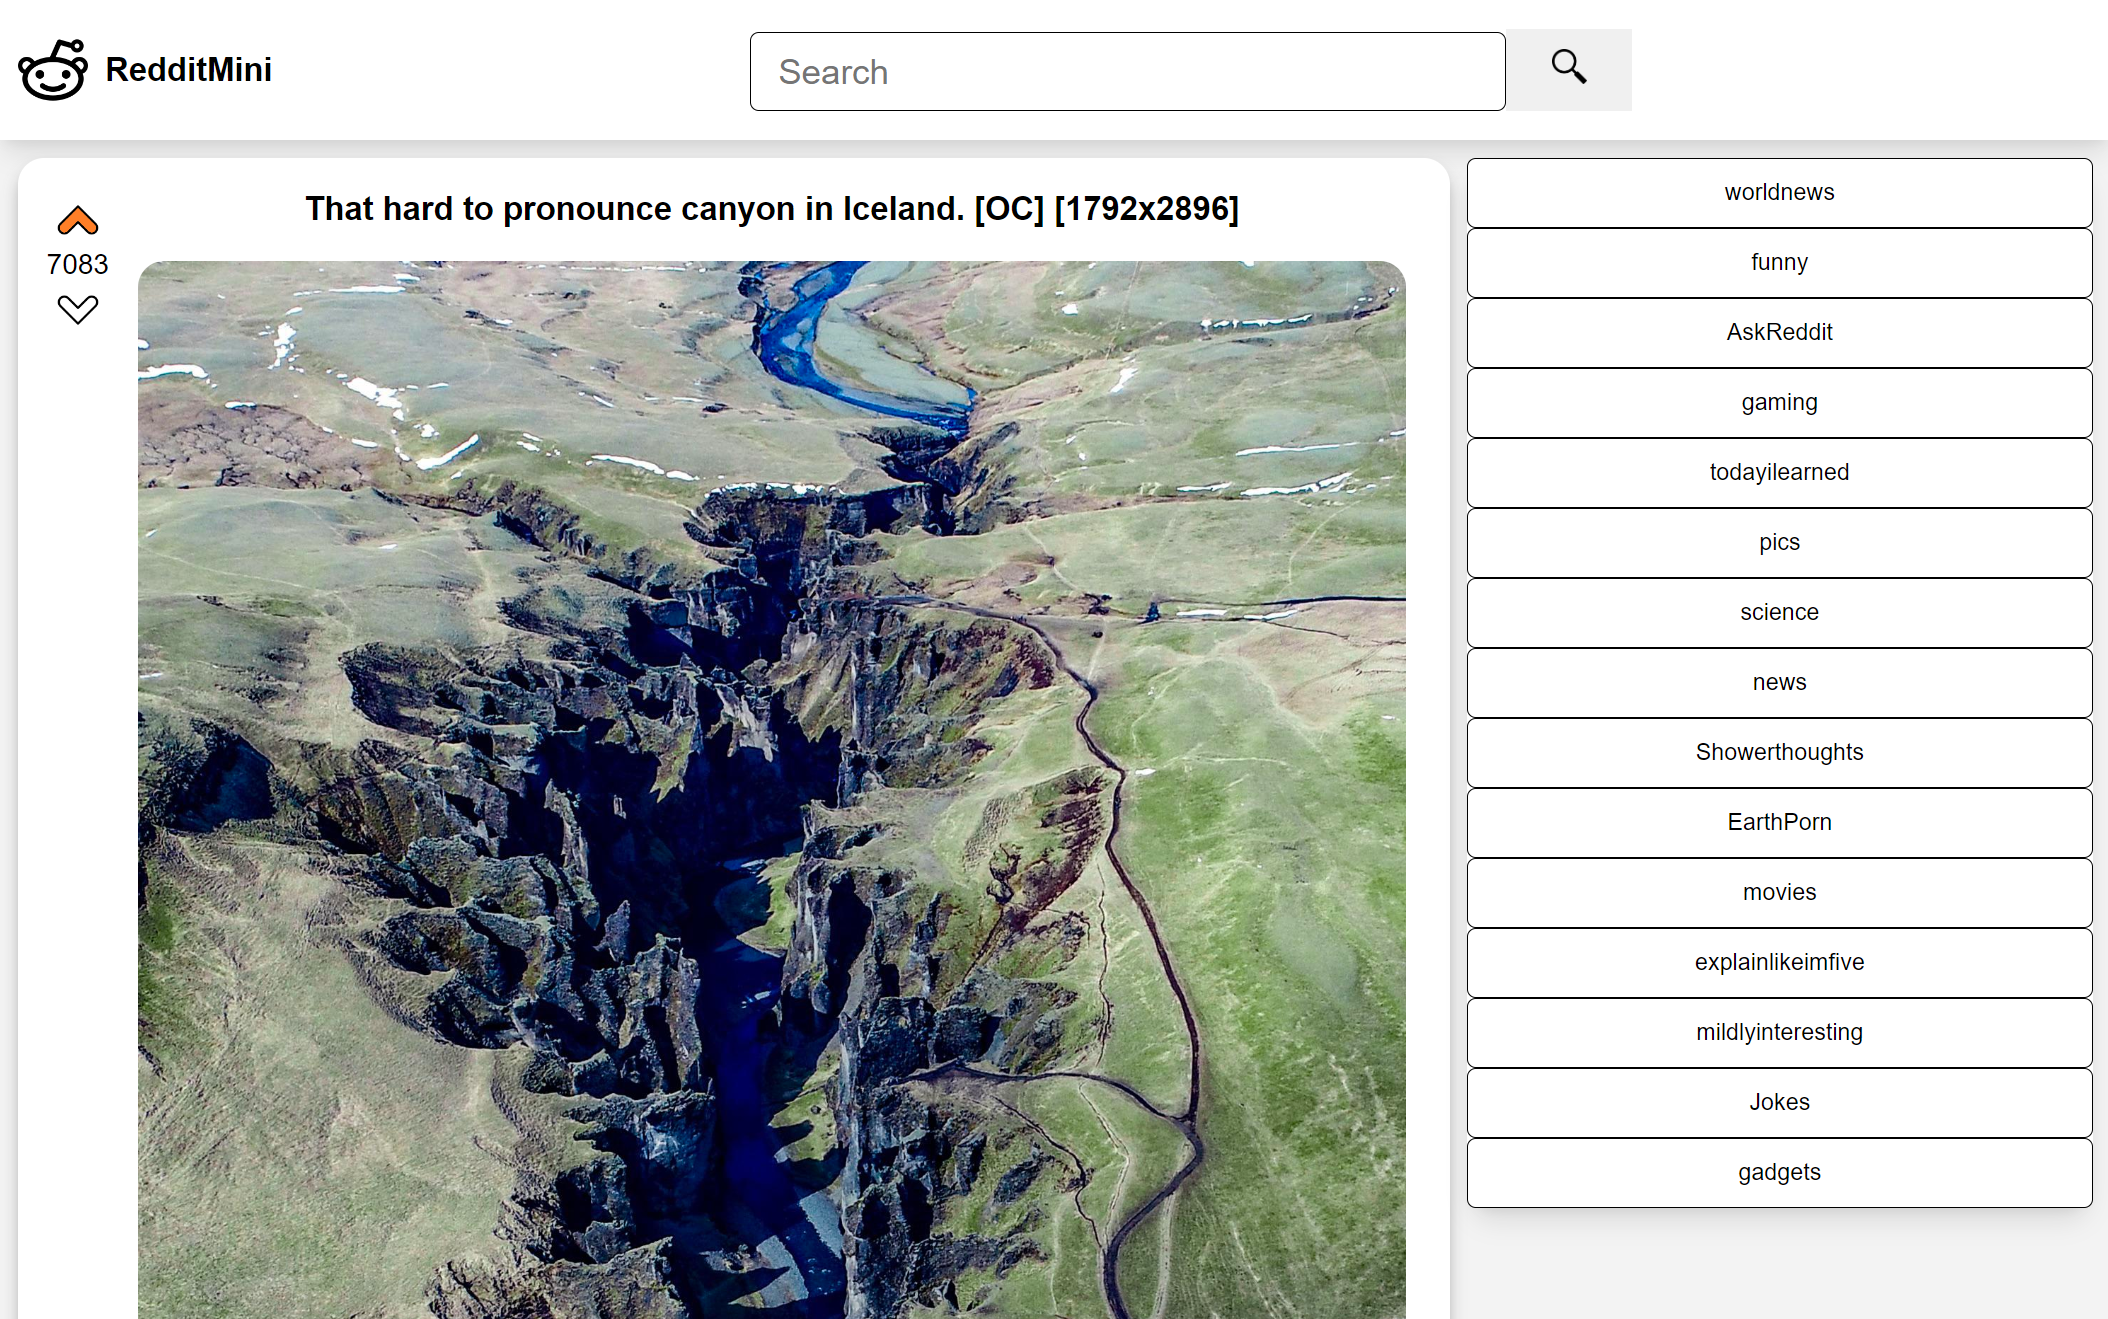
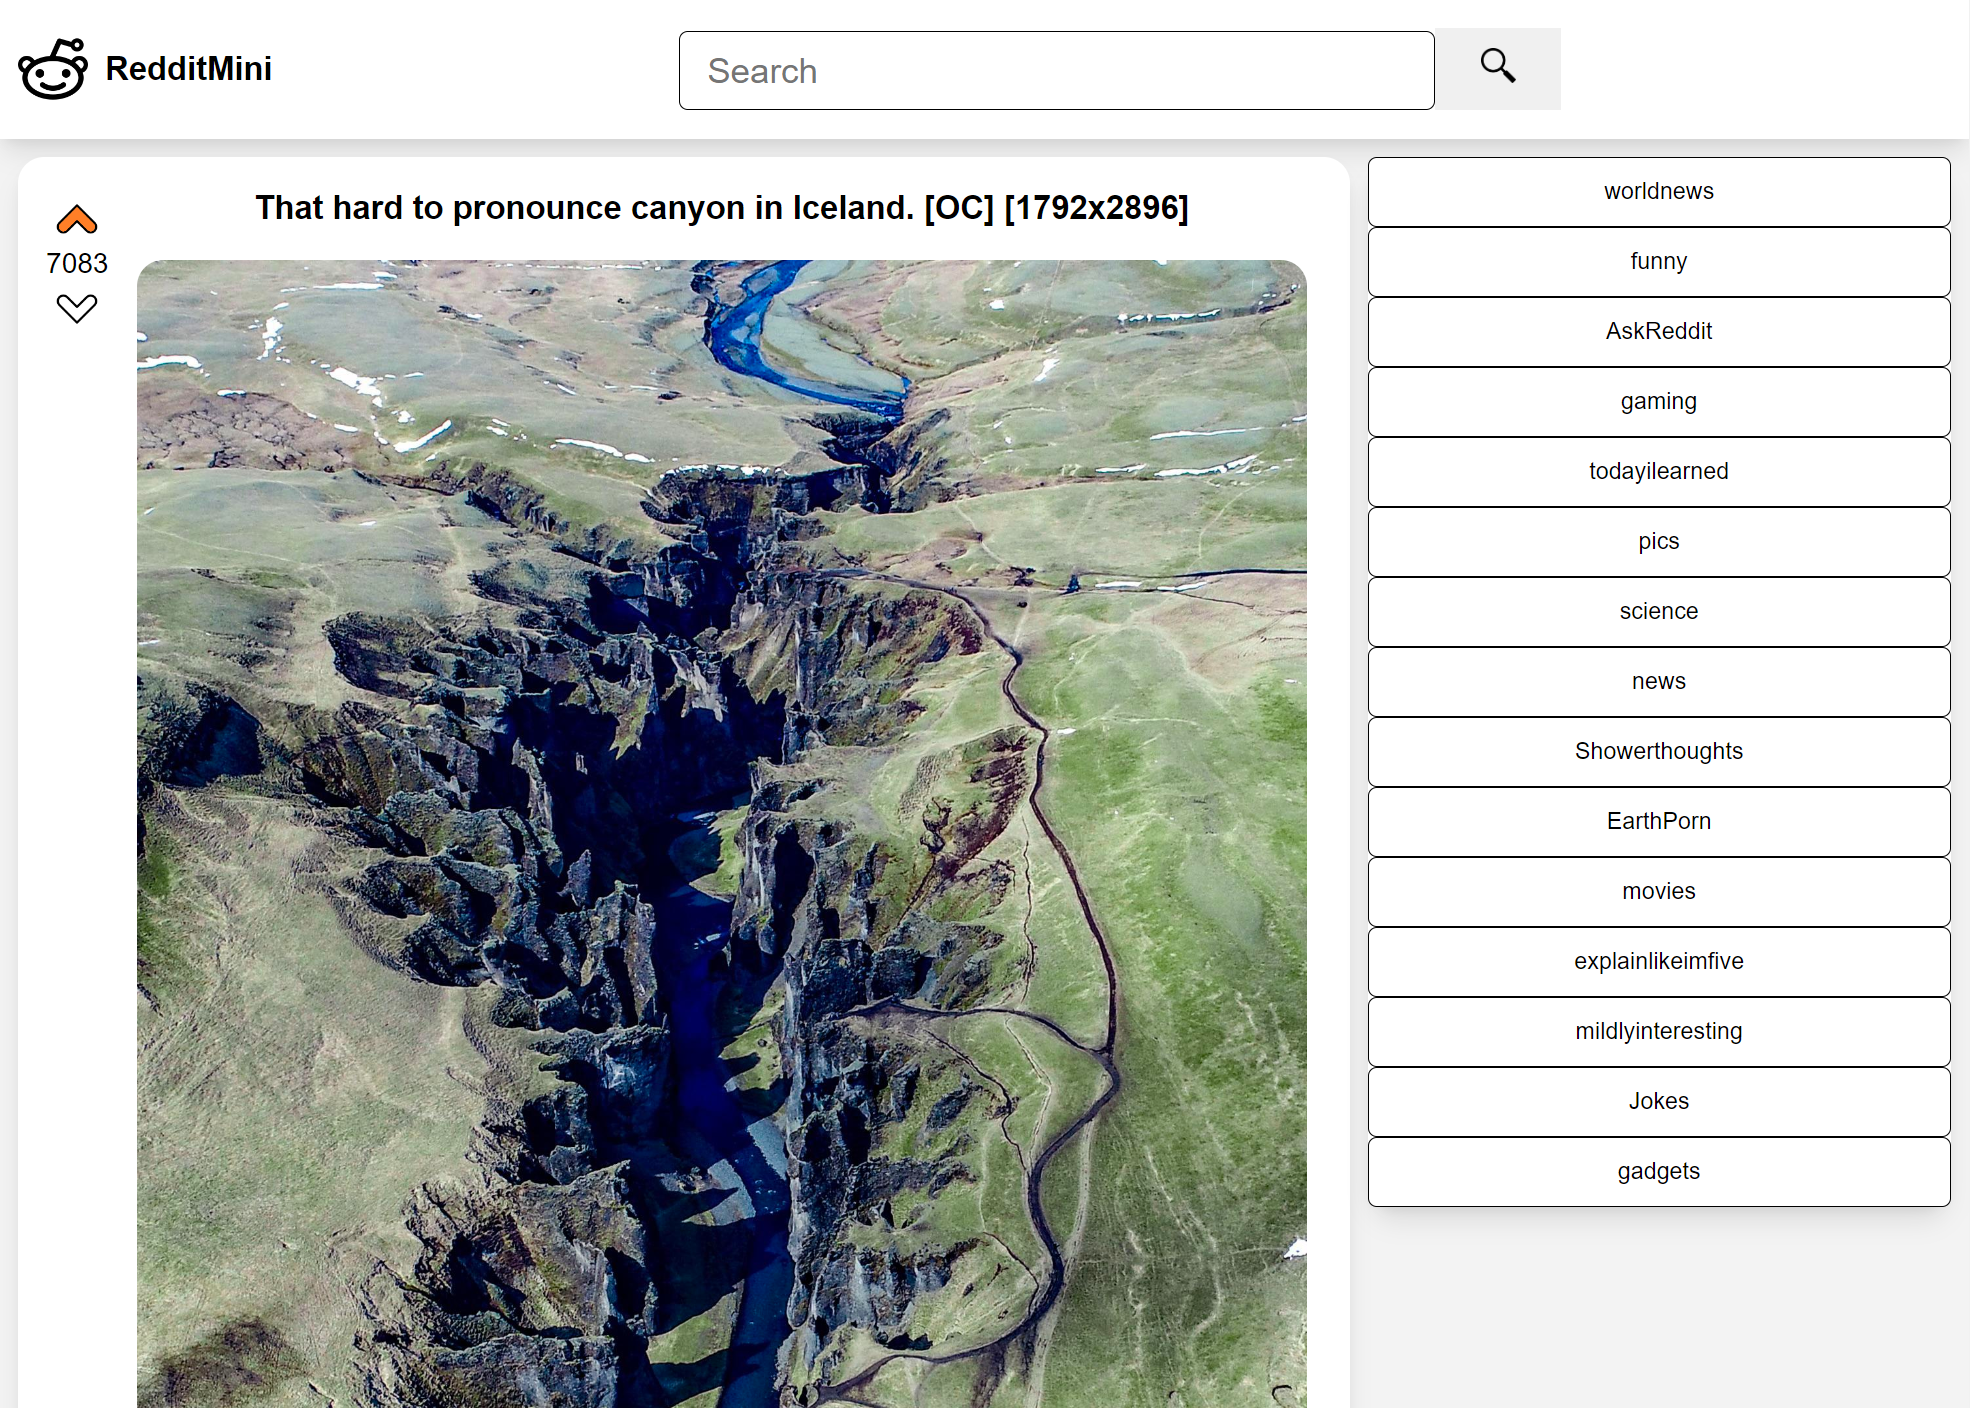
added functional and aesthetic changes to tileelements

diff --git a/src/styles.css b/src/styles.css
@@ -4,6 +4,7 @@
     --subtext-purp: #3d155f;
     --background-white: #f5f4fc;
     --background-work-tile: #f9f8fd;
+    --color-work-text: #474747;
     /* --background-work: #e9e6f0; */
 }
 
@@ -24,7 +25,7 @@ a:visited {
 }
 
 a:active {
-  color: purple;
+    color: purple;
 }
 
 h1 {
@@ -376,7 +377,7 @@ img.whiteframe {
 
 .work--text {
     position: absolute;
-    left: 44%;
+    left: 42%;
     top: 15%;
     text-align: center;
     font-family: source sans pro;
@@ -384,7 +385,7 @@ img.whiteframe {
 }
 
 .work--text h2 {
-    color: #474747;
+    color: var(--color-work-text);
     font-size: 2.5rem;
     font-weight: 700;
 }
@@ -422,7 +423,7 @@ img.whiteframe {
 
 .tile--top {
     height: 70%;
-    
+
 }
 
 .tile--bottom {
@@ -450,18 +451,42 @@ img.whiteframe {
 
 .elements--container p {
     display: inline;
+    color: var(--color-work-text);
+    font-size: 1rem;
+    line-height: 1.5rem;
+    font-family: 'Segoe UI', Tahoma, Geneva, Verdana, sans-serif;
+}
+
+.elements--container h2 {
+    color: var(--color-work-text);
+    font-size: 2rem;
+    font-weight: 700;
+    position: absolute;
+    left: 47%;
+    top: 10%;
 }
 
 .elements--container img {
     width: 50%;
+    height: 100%;
+    /* object-fit: contain; */
+
     box-shadow: rgba(0, 0, 0, 0.35) 0px 5px 15px;
 }
 
 .elements--content {
     display: flex;
+    position: absolute;
+    top: 20%;
+    left: 15%;
 
 }
 
 .elements--text {
     width: 30%;
+    margin-right: 5%;
+    padding: 1%;
+    border-radius: 5%;
+    box-shadow: rgba(0, 0, 0, 0.35) 0px 5px 15px;
+
 }

diff --git a/src/components/data.js b/src/components/data.js
@@ -15,7 +15,7 @@ export const data = [
         name: 'minireddit',
         logo: "minireddit.png",
         thumbnail: 'minireddit-ss.png',
-        description: `hellotax is a suite of tools and services tailored at providing robust and fast VAT Registration & Returns solutions for all kinds of online traders across Europe.
+        description: `hellotax is a suite of tools and services tailored at providing robust and fast VAT Registration & Returns solutions for all kinds of online traders across Europe. 
 
         The company already had a functioning web app but needed a professional to create an entirely new experience with the latest technologies to leverage speed and provide an optimal user experience as their customers were increasing. At the core of the product is data so there was heavy data transformation and manipulation involved and they needed to make that process as fast as possible.
         
